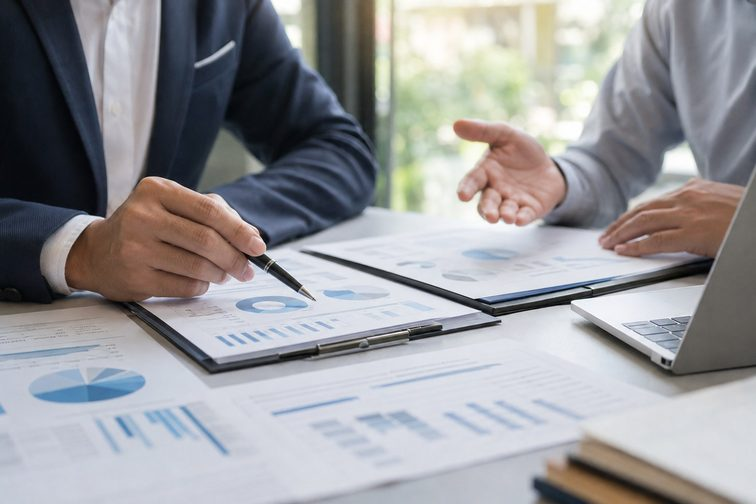
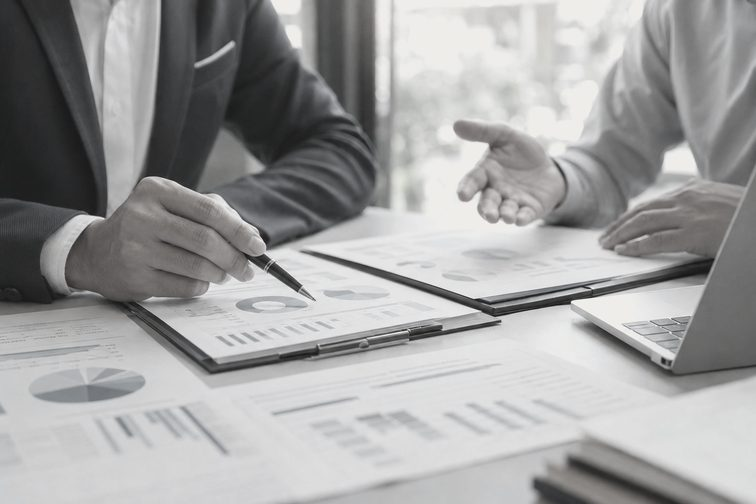
Дуотон снимков запечён в файлы, а не считается на каждом кадре

diff --git a/hy/index.html b/hy/index.html
@@ -432,15 +432,12 @@ header.on-dark .btn i{background:rgba(255,255,255,.22);}
   transition:transform .18s var(--e),background .45s var(--e),color .45s var(--e);}
 .ic:hover .ic-go,.ic:focus-visible .ic-go{background:var(--brand);color:var(--brand-on);}
 .ic-art{position:relative;flex:1 1 auto;min-height:110px;overflow:hidden;
-  background:#183256;isolation:isolate;
+  background:#183256;
   }
 .ic-art img{position:absolute;inset:0;width:100%;height:100%;object-fit:cover;display:block;
   transform:scale(1.06);transform-origin:52% 45%;
   transition:transform 1.15s cubic-bezier(.16,1,.3,1),filter .7s var(--e);
-  filter:grayscale(.9) contrast(.84) brightness(1.08);mix-blend-mode:lighten;}
-.ic-art::before{content:"";position:absolute;inset:-1px;z-index:1;
-  pointer-events:none;background:#F6F1E9;mix-blend-mode:darken;}
-.ic.is-open-card .ic-art::before{display:none;}
+  }
 .ic-art::after{content:"";position:absolute;pointer-events:none;z-index:2;
   inset:-1px;
   background:linear-gradient(180deg,rgba(13,36,64,.5) 0%,rgba(13,36,64,.05) 42%,rgba(16,39,69,.92) 86%,#102745 100%);}
@@ -731,11 +728,9 @@ footer .rv{transition-delay:calc(var(--i,0) * .09s);}
   box-shadow:0 0 0 1px rgba(253,250,244,.7);}
 #imd{max-width:880px;}
 #imd .ph{position:relative;aspect-ratio:16/7;overflow:hidden;
-  background:#183256;isolation:isolate;}
+  background:#183256;}
 #imd .ph img{width:100%;height:100%;object-fit:cover;display:block;
-  filter:grayscale(.9) contrast(.84) brightness(1.08);mix-blend-mode:lighten;}
-#imd .ph::before{content:"";position:absolute;inset:0;z-index:1;
-  pointer-events:none;background:#F6F1E9;mix-blend-mode:darken;}
+  }
 #imd .ph::after{content:"";position:absolute;left:0;bottom:0;width:62%;height:58%;
   pointer-events:none;z-index:1;
   background:linear-gradient(to top right,rgba(13,36,64,.72),rgba(13,36,64,.28) 42%,rgba(13,36,64,0) 78%);}

diff --git a/index.html b/index.html
@@ -427,15 +427,12 @@ header.on-dark .btn i{background:rgba(255,255,255,.22);}
   transition:transform .18s var(--e),background .45s var(--e),color .45s var(--e);}
 .ic:hover .ic-go,.ic:focus-visible .ic-go{background:var(--brand);color:var(--brand-on);}
 .ic-art{position:relative;flex:1 1 auto;min-height:110px;overflow:hidden;
-  background:#183256;isolation:isolate;
+  background:#183256;
   }
 .ic-art img{position:absolute;inset:0;width:100%;height:100%;object-fit:cover;display:block;
   transform:scale(1.06);transform-origin:52% 45%;
   transition:transform 1.15s cubic-bezier(.16,1,.3,1),filter .7s var(--e);
-  filter:grayscale(.9) contrast(.84) brightness(1.08);mix-blend-mode:lighten;}
-.ic-art::before{content:"";position:absolute;inset:-1px;z-index:1;
-  pointer-events:none;background:#F6F1E9;mix-blend-mode:darken;}
-.ic.is-open-card .ic-art::before{display:none;}
+  }
 .ic-art::after{content:"";position:absolute;pointer-events:none;z-index:2;
   inset:-1px;
   background:linear-gradient(180deg,rgba(13,36,64,.5) 0%,rgba(13,36,64,.05) 42%,rgba(16,39,69,.92) 86%,#102745 100%);}
@@ -726,11 +723,9 @@ footer .rv{transition-delay:calc(var(--i,0) * .09s);}
   box-shadow:0 0 0 1px rgba(253,250,244,.7);}
 #imd{max-width:880px;}
 #imd .ph{position:relative;aspect-ratio:16/7;overflow:hidden;
-  background:#183256;isolation:isolate;}
+  background:#183256;}
 #imd .ph img{width:100%;height:100%;object-fit:cover;display:block;
-  filter:grayscale(.9) contrast(.84) brightness(1.08);mix-blend-mode:lighten;}
-#imd .ph::before{content:"";position:absolute;inset:0;z-index:1;
-  pointer-events:none;background:#F6F1E9;mix-blend-mode:darken;}
+  }
 #imd .ph::after{content:"";position:absolute;left:0;bottom:0;width:62%;height:58%;
   pointer-events:none;z-index:1;
   background:linear-gradient(to top right,rgba(13,36,64,.72),rgba(13,36,64,.28) 42%,rgba(13,36,64,0) 78%);}
